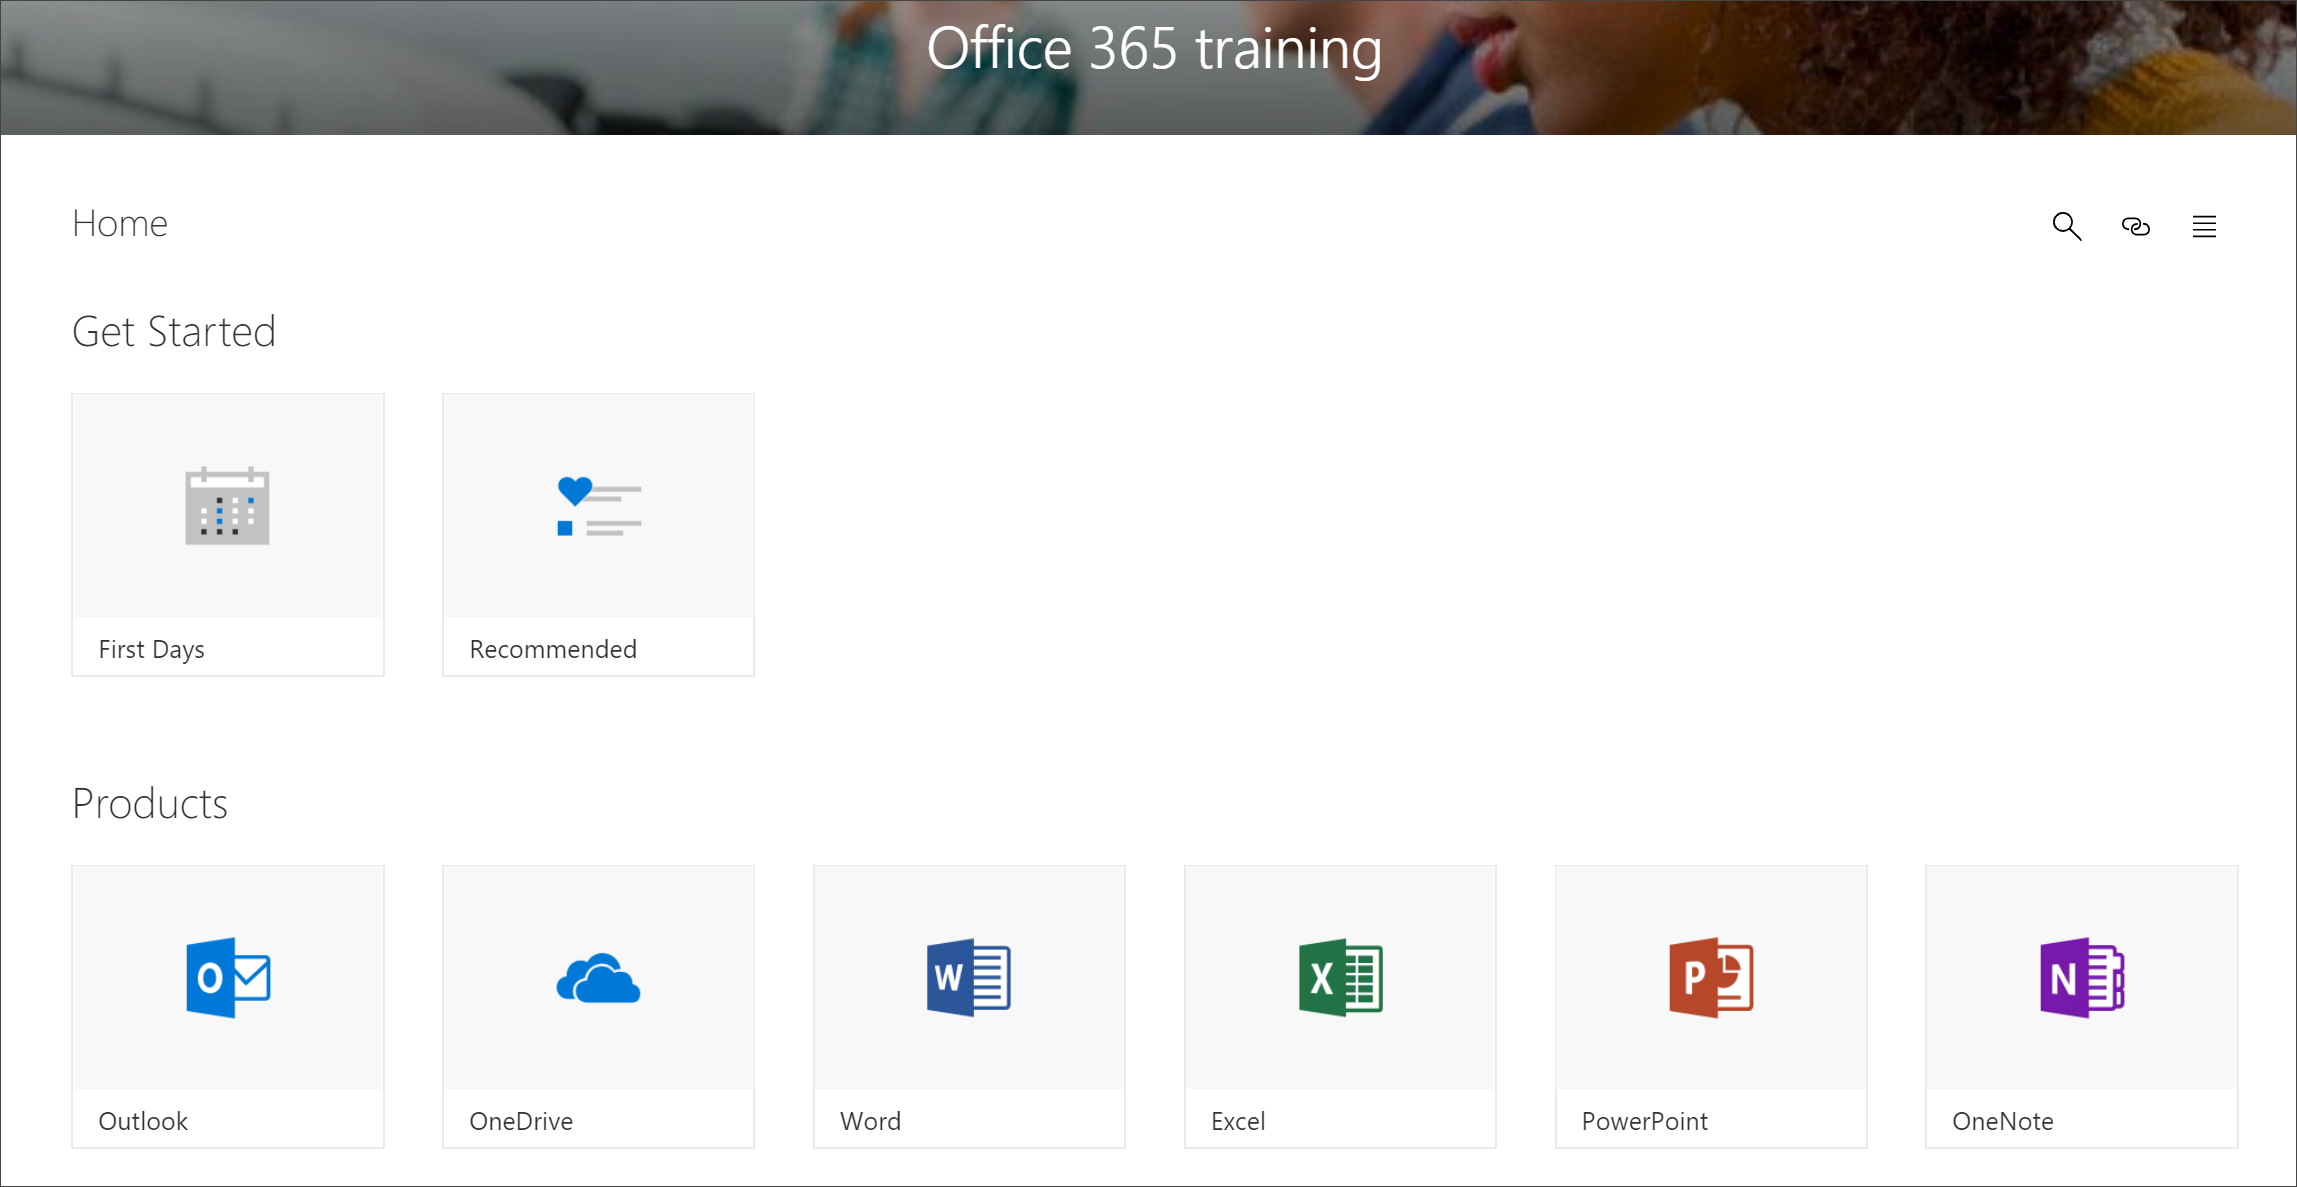
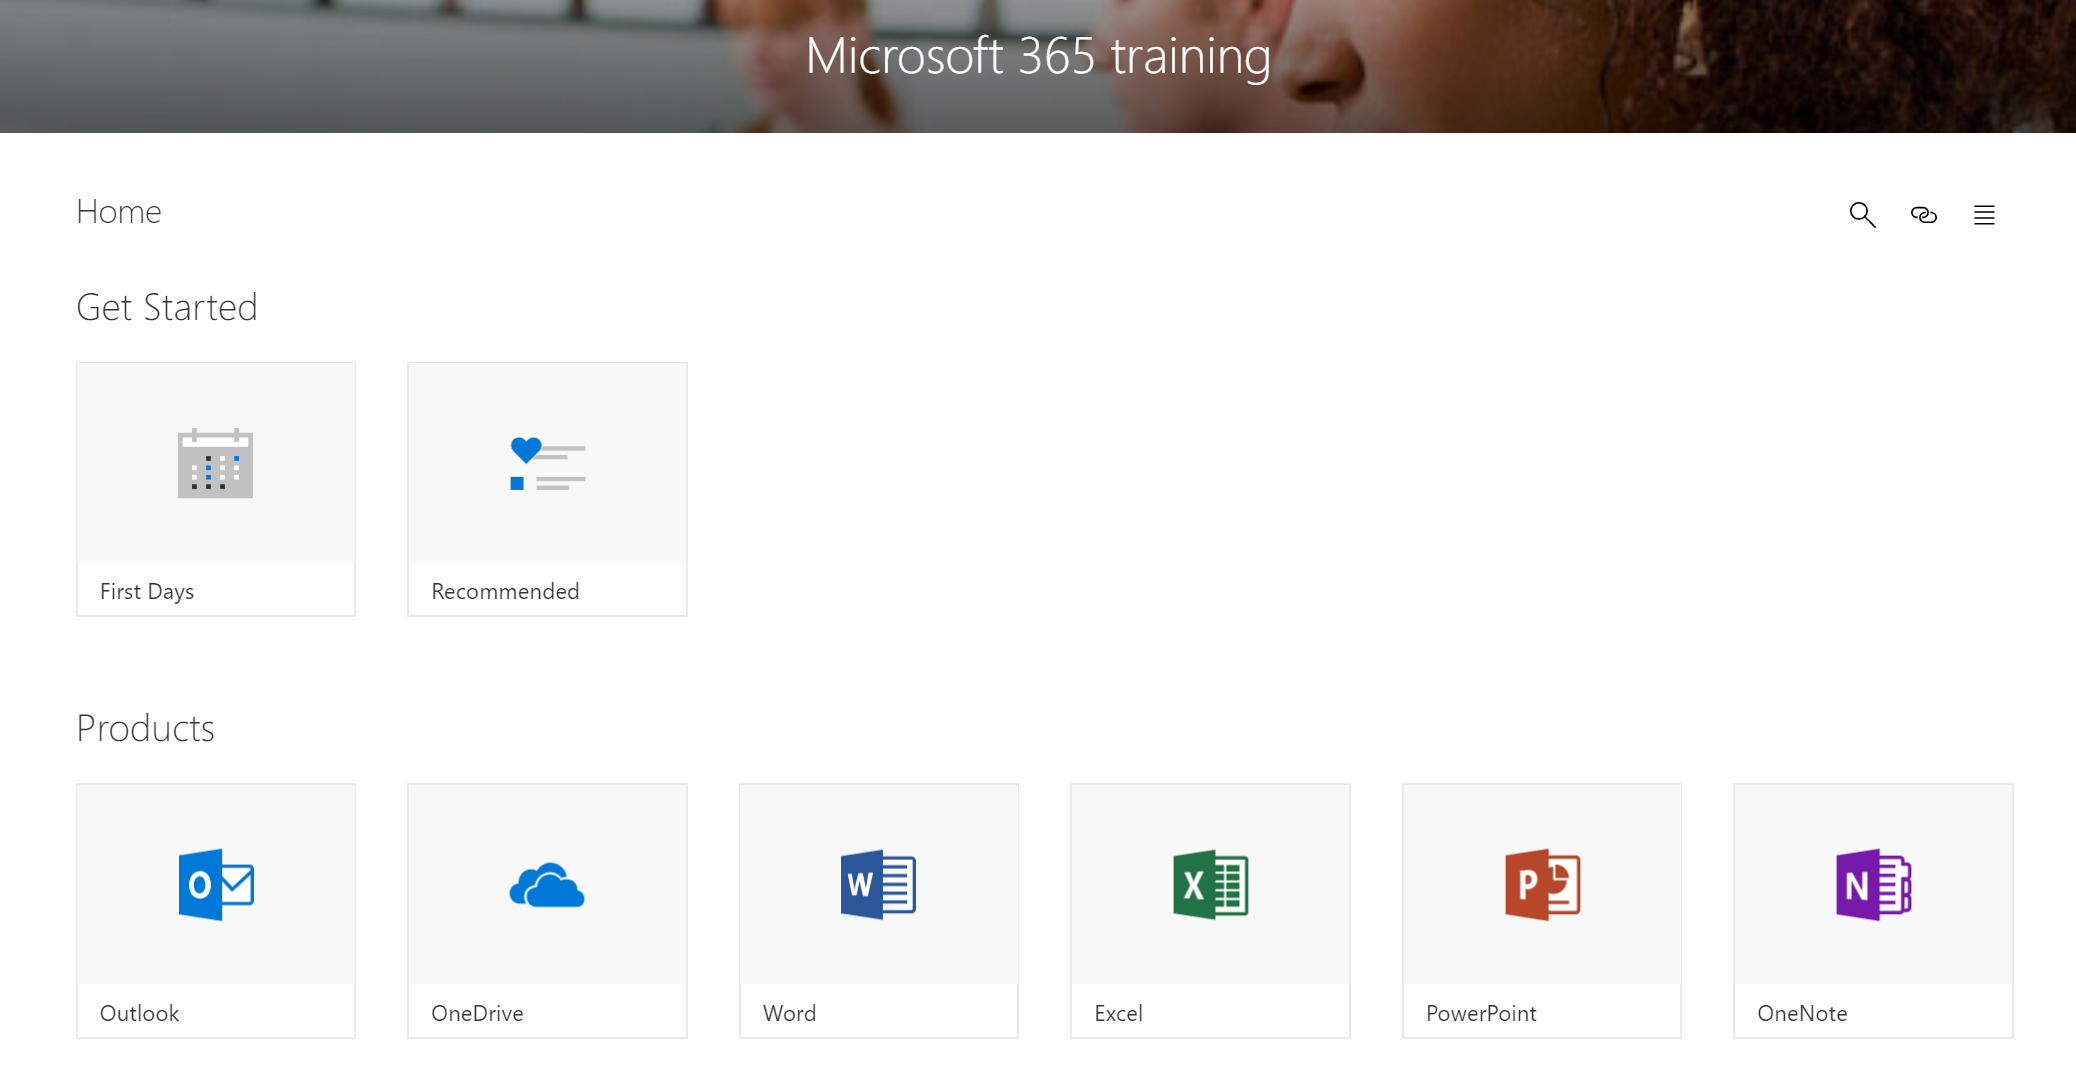
rebrand update

diff --git a/CustomLearning/custom_whereiswebpart.md b/CustomLearning/custom_whereiswebpart.md
@@ -39,11 +39,11 @@ The web part on the **Start-with-Six-Simple-Steps.aspx** page is configured to s
 
 ![cg-whereiswp-six.png](media/cg-whereiswp-six.png)
 
-## View all Office 365 training
+## View all Microsoft 365 training
 
-The Web part on the **Office 365 training** page is configured to show all the categories and subcategories available from the learning pathways catalog. This includes subcategories from Microsoft along with any subcategories that you create for your organization.
+The Web part on the **Microsoft 365 training** page is configured to show all the categories and subcategories available from the learning pathways catalog. This includes subcategories from Microsoft along with any subcategories that you create for your organization.
 
-- From the learning pathways Home page, click **Office 365 training**. The page appears appears with the Web part configured to show all the categories and subcategories available from the Custom Learning catalog.
+- From the learning pathways Home page, click **Microsoft 365 training**. The page appears appears with the Web part configured to show all the categories and subcategories available from the Custom Learning catalog.
 
 ![cg-whereiswp-o365.png](media/cg-whereiswp-o365.png)
 
